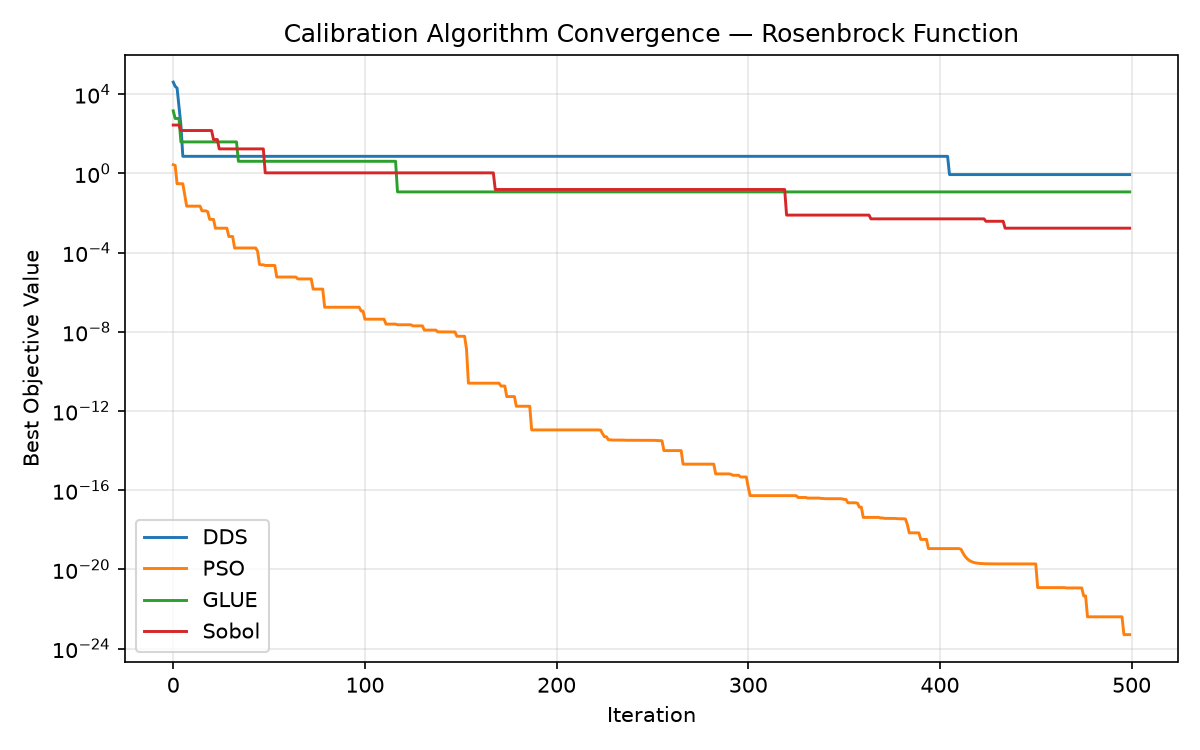
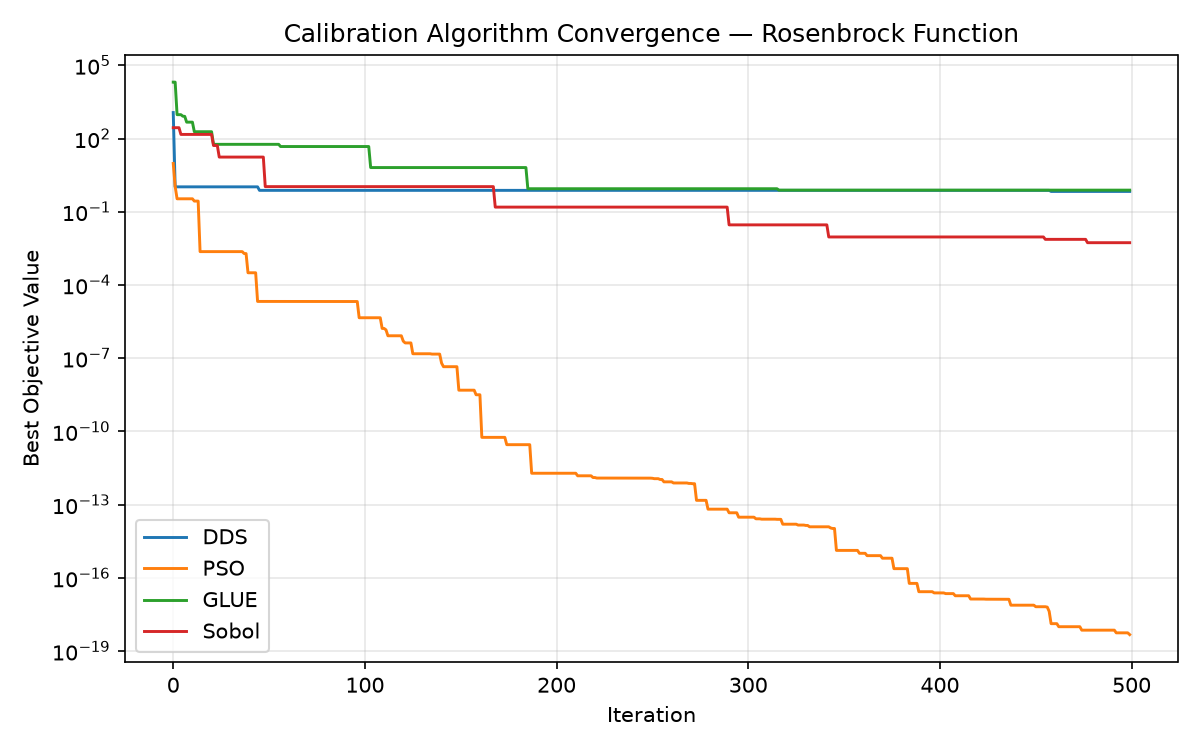
daily: update calibration benchmark results

diff --git a/docs/benchmarks.md b/docs/benchmarks.md
@@ -1,16 +1,16 @@
-<!-- fingerprint:a44f04cda9aa964ca60e0033a3c83b44 -->
+<!-- fingerprint:5bc012391b71650b4cf7abc95c276606 -->
 # Calibration Algorithm Benchmarks
 
-*Last updated: 2026-09-10 09:49 UTC*
+*Last updated: 2026-09-11 09:49 UTC*
 
 Synthetic benchmark on the **Rosenbrock** test function f(x,y) = (1−x)² + 100·(y−x²)²  with random starting points.
 
 | Algorithm | Iterations | Best Objective | Convergence Rate |
 |-----------|-----------|----------------|------------------|
-| DDS | 500 | 8.776241e-01 | 99.98% |
-| PSO | 500 | 5.083014e-24 | 100.00% |
-| GLUE | 500 | 1.171560e-01 | 99.73% |
-| Sobol | 500 | 1.723432e-03 | 99.62% |
+| DDS | 500 | 6.809545e-01 | 99.99% |
+| PSO | 500 | 4.705152e-19 | 100.00% |
+| GLUE | 500 | 7.700448e-01 | 99.77% |
+| Sobol | 500 | 5.407015e-03 | 99.62% |
 
 ![Convergence plot](benchmark-convergence.png)
 
